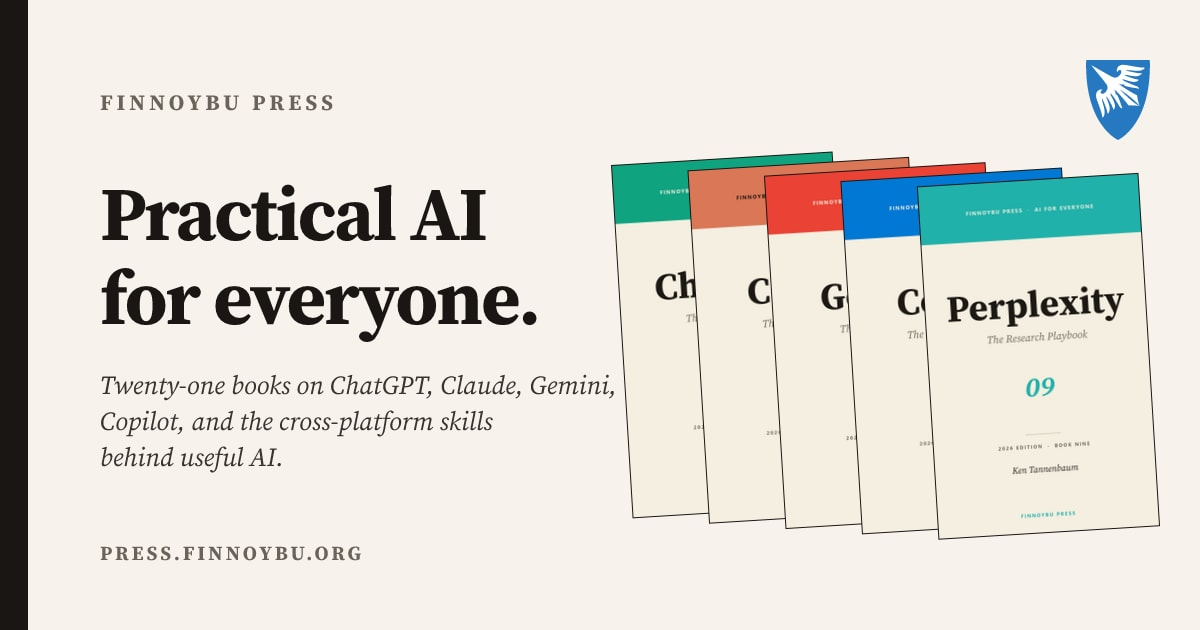
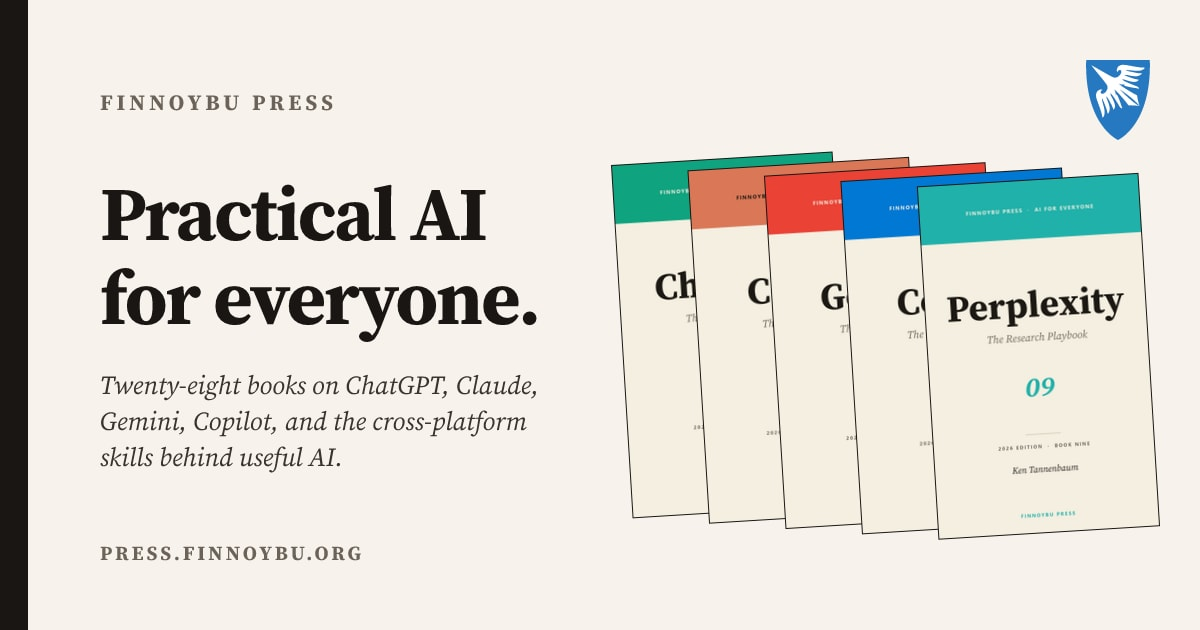
Update stale book count 21 -> 28 across site copy + OG cards
The catalog is 28 books now. Fix the Series and Home OG card taglines, the BaseLayout meta-description default, the 404 page, three spots on the About page, and the checkout grant-count comment. Left the legitimate 'Book Twenty-One' references (book #21, Securing Agentic AI) alone.

Changed region(s): [[0.0925, 0.573, 0.5242, 0.754]]

diff --git a/src/pages/api/checkout.ts b/src/pages/api/checkout.ts
@@ -19,8 +19,8 @@ type CartItemWire =
 // Stripe metadata is keyed name → string and capped per-key (500-char value
 // limit). We pack a flat list of every slug the buyer should be granted
 // access to, so the webhook can record purchases without re-resolving bundle
-// membership server-side. A Series purchase produces 24 grants (21 books + 3
-// toolkits) from a single Stripe line item.
+// membership server-side. A Series purchase produces 28 grants (all 28 books;
+// the Series bundle no longer includes toolkits) from a single Stripe line item.
 
 export const POST: APIRoute = async (ctx) => {
   const user = ctx.locals.user;
